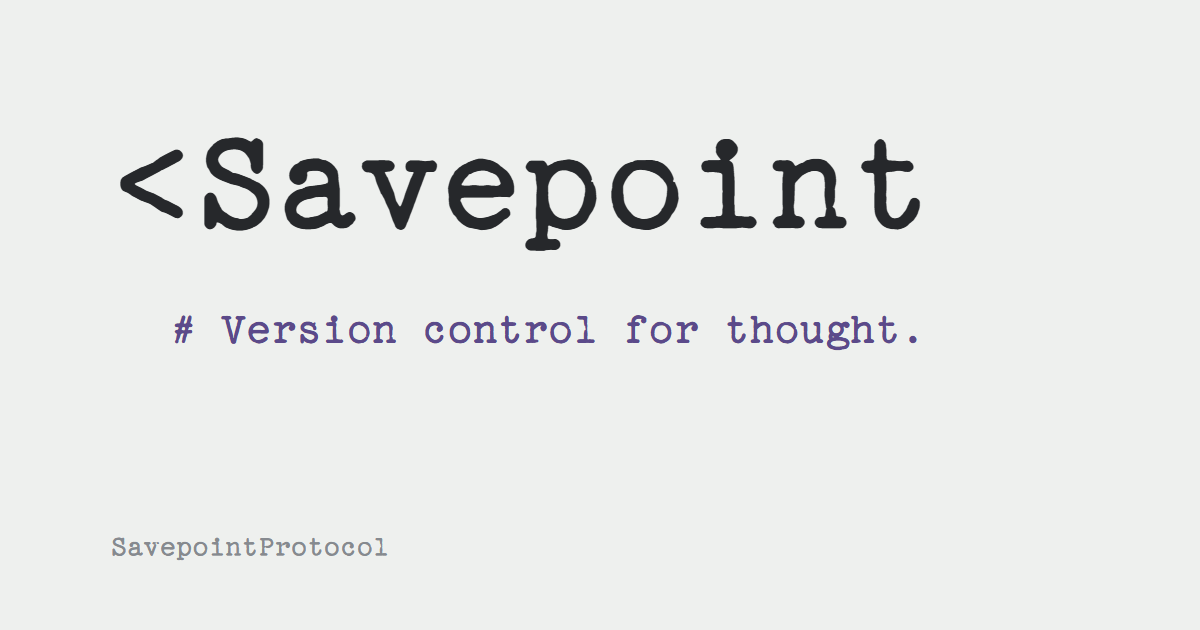
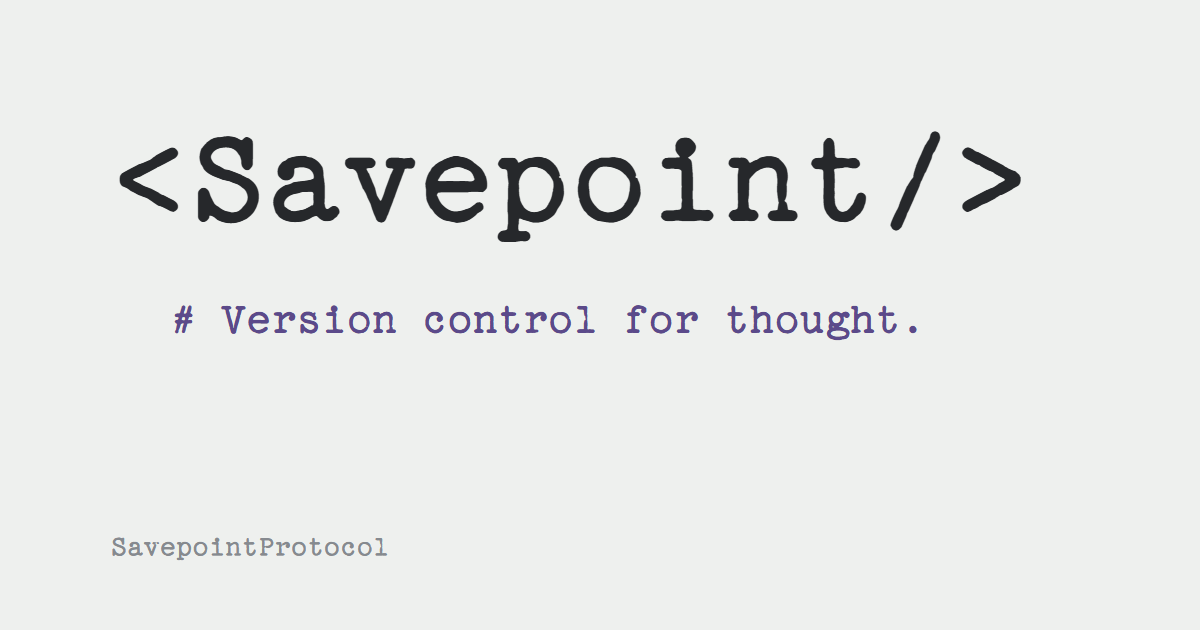
Close the mark: <Savepoint/> everywhere
Nav mark, favicon (<S/>), touch icon, og image and the SVG mark now use
the self-closing tag, matching the protocol's actual syntax.

Claude-Session: https://claude.ai/code/session_01C5GM9Z9fcS8kwgfTdpeawB

diff --git a/_layouts/default.html b/_layouts/default.html
@@ -6,7 +6,7 @@
 <body>
   <div class="site-wrapper">
     <nav class="site-nav">
-      {% unless page.url == '/' %}<a href="{{ '/' | relative_url }}" class="nav-home" aria-label="SavepointProtocol home">&lt;Savepoint</a>{% endunless %}
+      {% unless page.url == '/' %}<a href="{{ '/' | relative_url }}" class="nav-home" aria-label="SavepointProtocol home">&lt;Savepoint/&gt;</a>{% endunless %}
       <ul class="nav-docs">
         {% assign ordered_docs = site.docs | sort: "order" %}
         {% for doc in ordered_docs %}
